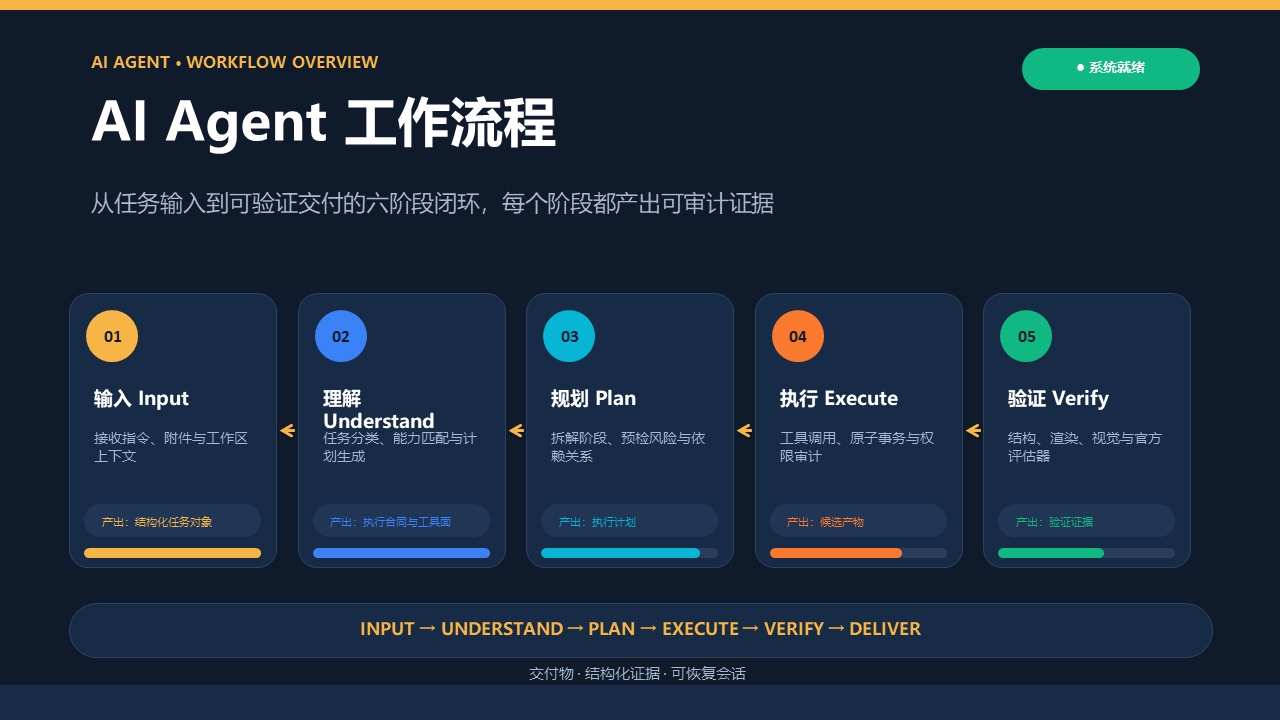
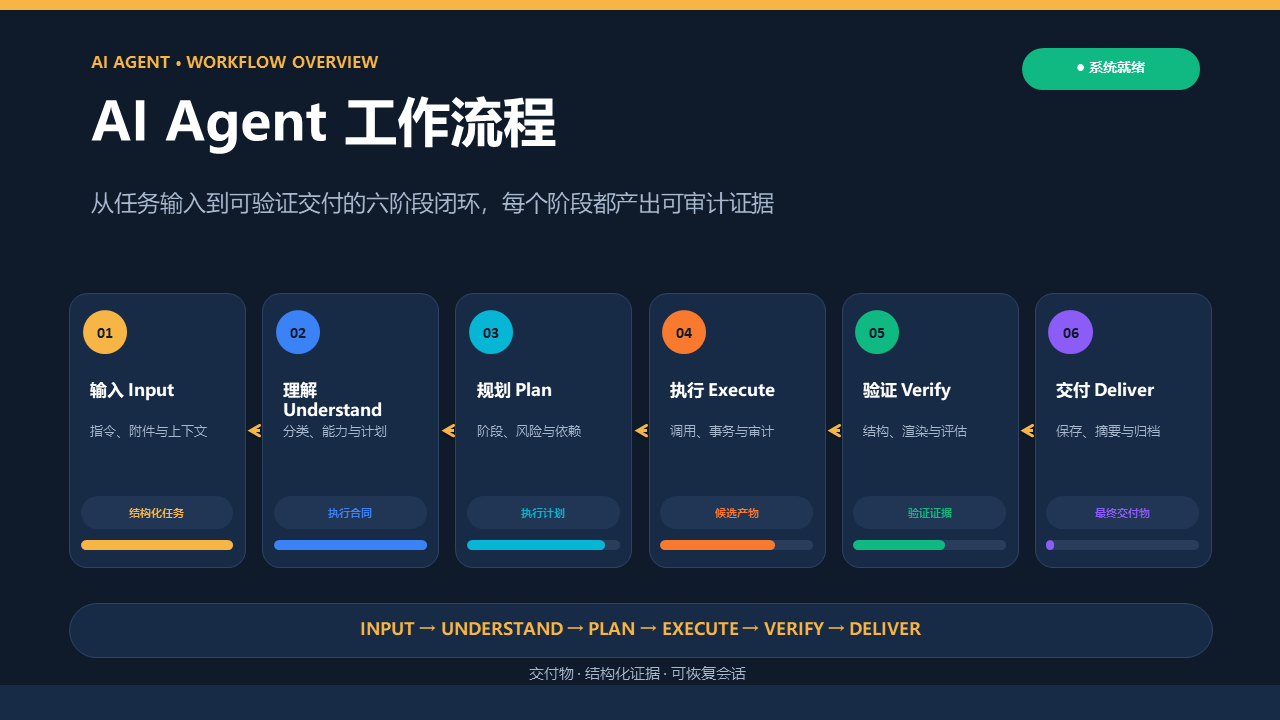
AI Agent workflow v6: complete six-stage pipeline on native page

Changed region(s): [[0.0625, 0.3972, 0.9688, 0.7944]]

diff --git a/benchmarks/manual_tasks/ai-agent-workflow/build_deck_v6.py b/benchmarks/manual_tasks/ai-agent-workflow/build_deck_v6.py
@@ -1,0 +1,194 @@
+"""AI Agent workflow deck v6.
+
+Page 1: six-stage native pipeline (input -> deliver) with stage cards and
+delivery closure. Page 2: compact HTML-dashboard layout from v5.
+"""
+from pathlib import Path
+from pptx import Presentation
+from pptx.util import Inches, Pt
+from pptx.dml.color import RGBColor
+from pptx.enum.shapes import MSO_SHAPE, MSO_CONNECTOR
+from pptx.enum.text import PP_ALIGN, MSO_ANCHOR
+
+OUT = Path(r"E:\project\agent\xiaopu\workspace\iteration_runs\tasks\ai-agent-workflow\output\ai_agent_workflow.pptx")
+OUT.parent.mkdir(parents=True, exist_ok=True)
+
+NAVY = RGBColor(0x0F, 0x1A, 0x2B)
+NAVY2 = RGBColor(0x18, 0x2B, 0x46)
+WHITE = RGBColor(0xFF, 0xFF, 0xFF)
+MUTED = RGBColor(0xA8, 0xB8, 0xCE)
+AMBER = RGBColor(0xF6, 0xB5, 0x44)
+INK = RGBColor(0x22, 0x2A, 0x35)
+GRAY = RGBColor(0x66, 0x70, 0x7D)
+PAPER = RGBColor(0xF3, 0xF5, 0xF8)
+CARD = RGBColor(0xFF, 0xFF, 0xFF)
+BORDER = RGBColor(0xDF, 0xE5, 0xEC)
+BLUE = RGBColor(0x3B, 0x82, 0xF6)
+GREEN = RGBColor(0x10, 0xB9, 0x81)
+ORANGE = RGBColor(0xF9, 0x7A, 0x2E)
+PURPLE = RGBColor(0x8B, 0x5C, 0xF6)
+CYAN = RGBColor(0x06, 0xB6, 0xD4)
+
+prs = Presentation()
+prs.slide_width = Inches(13.333)
+prs.slide_height = Inches(7.5)
+BLANK = prs.slide_layouts[6]
+
+
+def rect(slide, x, y, w, h, fill, line=None, round_=False, radius=0.12):
+    kind = MSO_SHAPE.ROUNDED_RECTANGLE if round_ else MSO_SHAPE.RECTANGLE
+    sh = slide.shapes.add_shape(kind, Inches(x), Inches(y), Inches(w), Inches(h))
+    sh.fill.solid(); sh.fill.fore_color.rgb = fill
+    if line is None:
+        sh.line.fill.background()
+    else:
+        sh.line.color.rgb = line; sh.line.width = Pt(0.75)
+    sh.shadow.inherit = False
+    if round_:
+        try:
+            sh.adjustments[0] = radius
+        except Exception:
+            pass
+    return sh
+
+
+def text(slide, x, y, w, h, value, size, color, bold=False, align=PP_ALIGN.LEFT,
+         anchor=MSO_ANCHOR.TOP, spacing=1.0, font="Microsoft YaHei"):
+    box = slide.shapes.add_textbox(Inches(x), Inches(y), Inches(w), Inches(h))
+    tf = box.text_frame
+    tf.word_wrap = True
+    tf.vertical_anchor = anchor
+    for i, line in enumerate(value.split("\n")):
+        p = tf.paragraphs[0] if i == 0 else tf.add_paragraph()
+        p.alignment = align
+        p.line_spacing = spacing
+        r = p.add_run(); r.text = line
+        r.font.size = Pt(size); r.font.bold = bold; r.font.color.rgb = color; r.font.name = font
+    return box
+
+
+def arrow(slide, x1, y1, x2, y2, color=AMBER):
+    c = slide.shapes.add_connector(MSO_CONNECTOR.STRAIGHT, Inches(x1), Inches(y1), Inches(x2), Inches(y2))
+    c.line.color.rgb = color; c.line.width = Pt(2)
+    ln = c.line._get_or_add_ln()
+    ln.append(ln.makeelement("{http://schemas.openxmlformats.org/drawingml/2006/main}headEnd",
+                             {"type": "arrow", "w": "med", "len": "med"}))
+
+
+def progress(slide, x, y, w, frac, color):
+    rect(slide, x, y, w, 0.10, RGBColor(0x2A, 0x3D, 0x5A), None, True, 0.5)
+    rect(slide, x, y, max(0.08, w * frac), 0.10, color, None, True, 0.5)
+
+
+# ---------------- page 1 ----------------
+s1 = prs.slides.add_slide(BLANK)
+rect(s1, 0, 0, 13.333, 7.5, NAVY)
+rect(s1, 0, 0, 13.333, 0.10, AMBER)
+rect(s1, 0, 7.14, 13.333, 0.36, NAVY2)
+text(s1, 0.85, 0.50, 8.2, 0.4, "AI AGENT · WORKFLOW OVERVIEW", 12, AMBER, True)
+rect(s1, 10.65, 0.50, 1.85, 0.44, GREEN, None, True, 0.5)
+text(s1, 10.65, 0.56, 1.85, 0.30, "● 系统就绪", 10.5, WHITE, True, PP_ALIGN.CENTER)
+text(s1, 0.85, 0.88, 11.6, 1.0, "AI Agent 工作流程", 40, WHITE, True)
+text(s1, 0.85, 1.92, 11.6, 0.55, "从任务输入到可验证交付的六阶段闭环，每个阶段都产出可审计证据", 17, MUTED)
+text(s1, 0.85, 6.88, 11.6, 0.30, "交付物 · 结构化证据 · 可恢复会话", 11, MUTED, False, PP_ALIGN.CENTER)
+
+steps = [
+    ("01", "输入 Input", "指令、附件与上下文", "结构化任务", 1.0, AMBER),
+    ("02", "理解 Understand", "分类、能力与计划", "执行合同", 1.0, BLUE),
+    ("03", "规划 Plan", "阶段、风险与依赖", "执行计划", 0.9, CYAN),
+    ("04", "执行 Execute", "调用、事务与审计", "候选产物", 0.75, ORANGE),
+    ("05", "验证 Verify", "结构、渲染与评估", "验证证据", 0.6, GREEN),
+    ("06", "交付 Deliver", "保存、摘要与归档", "最终交付物", 0.0, PURPLE),
+]
+x0, y0, gap = 0.72, 3.05, 0.18
+w = (13.333 - 2 * x0 - 5 * gap) / 6
+h = 2.86
+for i, (num, title, desc, deliver, frac, accent) in enumerate(steps):
+    x = x0 + i * (w + gap)
+    rect(s1, x, y0, w, h, NAVY2, RGBColor(0x2E, 0x42, 0x62), True, 0.10)
+    chip = rect(s1, x + 0.14, y0 + 0.18, 0.46, 0.46, accent, None, True, 0.5)
+    tf = chip.text_frame; tf.word_wrap = False
+    p = tf.paragraphs[0]; p.alignment = PP_ALIGN.CENTER
+    r = p.add_run(); r.text = num; r.font.size = Pt(12); r.font.bold = True; r.font.color.rgb = NAVY
+    text(s1, x + 0.12, y0 + 0.86, w - 0.24, 0.40, title, 12.5, WHITE, True)
+    text(s1, x + 0.12, y0 + 1.32, w - 0.24, 0.72, desc, 9.5, MUTED, spacing=1.02)
+    rect(s1, x + 0.12, y0 + 2.12, w - 0.24, 0.34, RGBColor(0x21, 0x35, 0x55), None, True, 0.5)
+    text(s1, x + 0.18, y0 + 2.18, w - 0.36, 0.22, deliver, 8, accent, True, PP_ALIGN.CENTER)
+    progress(s1, x + 0.12, y0 + 2.58, w - 0.24, frac, accent)
+    if i < len(steps) - 1:
+        arrow(s1, x + w + 0.025, y0 + h / 2, x + w + gap - 0.025, y0 + h / 2)
+
+rect(s1, 0.72, 6.28, 11.90, 0.56, NAVY2, RGBColor(0x2E, 0x42, 0x62), True, 0.5)
+text(s1, 0.92, 6.40, 11.5, 0.34, "INPUT → UNDERSTAND → PLAN → EXECUTE → VERIFY → DELIVER", 12.5, AMBER, True, PP_ALIGN.CENTER)
+
+# ---------------- page 2 ----------------
+s2 = prs.slides.add_slide(BLANK)
+rect(s2, 0, 0, 13.333, 7.5, PAPER)
+rect(s2, 0, 0, 13.333, 0.78, CARD, BORDER)
+rect(s2, 0.55, 0.20, 0.38, 0.38, BLUE, None, True, 0.5)
+text(s2, 1.08, 0.16, 3.2, 0.45, "AI Agent Console", 15, INK, True)
+tabs = [("总览", True), ("执行", False), ("验证", False), ("设置", False)]
+tx = 4.55
+for label, active in tabs:
+    wtab = 0.72
+    if active:
+        rect(s2, tx, 0.27, wtab, 0.28, BLUE, None, True, 0.5)
+        text(s2, tx, 0.31, wtab, 0.22, label, 10.5, WHITE, True, PP_ALIGN.CENTER)
+    else:
+        text(s2, tx, 0.31, wtab, 0.22, label, 10.5, GRAY, False, PP_ALIGN.CENTER)
+    tx += wtab + 0.18
+text(s2, 8.95, 0.25, 1.6, 0.32, "● 系统在线", 10.5, GREEN, True)
+rect(s2, 10.55, 0.19, 2.25, 0.42, BLUE, None, True, 0.5)
+text(s2, 10.55, 0.26, 2.25, 0.30, "＋ 新建任务", 11.5, WHITE, True, PP_ALIGN.CENTER)
+
+text(s2, 0.75, 0.94, 11.8, 0.48, "工作台 · 四阶段运行视图", 23, INK, True)
+text(s2, 0.75, 1.40, 11.8, 0.34, "复杂任务被拆解为可验证阶段，状态、指标与证据实时可见", 12, GRAY)
+
+kpis = [
+    ("1.2s", "平均响应", BLUE), ("98.2%", "任务完成率", GREEN),
+    ("99.7%", "工具调用成功率", ORANGE), ("100%", "证据覆盖率", PURPLE),
+]
+kw = 2.86; kgap = 0.22; kx = 0.75; ky = 1.84; kh = 0.78
+for i, (value, label, color) in enumerate(kpis):
+    x = kx + i * (kw + kgap)
+    rect(s2, x, ky, kw, kh, CARD, BORDER, True, 0.10)
+    rect(s2, x, ky, 0.08, kh, color)
+    text(s2, x + 0.22, ky + 0.08, kw - 0.4, 0.30, value, 18, INK, True)
+    text(s2, x + 0.22, ky + 0.46, kw - 0.4, 0.24, label, 9.5, GRAY)
+
+cards = [
+    ("INPUT", "输入 Input", "01", BLUE, "接收指令、附件与工作区上下文，完成意图澄清与队列排序。",
+     ["自然语言与多模态输入", "自动发现任务相关文件", "生成结构化任务对象"], "12+", "输入类型", 1.0),
+    ("UNDERSTAND", "理解 Understand", "02", GREEN, "解析任务语义，匹配类型、能力与执行合同。",
+     ["任务分类与 Skill 选择", "能力与工具面解析", "风险与依赖预检"], "8", "任务类型", 1.0),
+    ("EXECUTE", "执行 Execute", "03", ORANGE, "在阶段工具面内执行修改，全部变更走原子事务与审计。",
+     ["阶段化工具准入", "原子批量事务", "失败自动回滚"], "100%", "事务回滚", 0.8),
+    ("VERIFY", "验证 Verify", "04", PURPLE, "以结构、渲染、视觉与官方评估器四层证据确认交付质量。",
+     ["反例定位与局部修复", "证据新鲜度管理", "交付前强制 gate"], "4", "证据层", 0.7),
+]
+positions = [(0.75, 2.76), (6.90, 2.76), (0.75, 4.86), (6.90, 4.86)]
+cw, ch = 5.70, 1.98
+for (tag, title, num, accent, desc, bullets, metric, metric_label, frac), (cx, cy) in zip(cards, positions):
+    rect(s2, cx, cy, cw, ch, CARD, BORDER, True, 0.07)
+    rect(s2, cx, cy, 0.09, ch, accent)
+    rect(s2, cx + 0.26, cy + 0.18, 0.50, 0.50, accent, None, True, 0.2)
+    text(s2, cx + 0.26, cy + 0.24, 0.50, 0.36, num, 13, WHITE, True, PP_ALIGN.CENTER)
+    text(s2, cx + 0.90, cy + 0.16, 2.4, 0.34, title, 14.5, INK, True)
+    rect(s2, cx + cw - 1.42, cy + 0.22, 1.14, 0.28, PAPER, None, True, 0.5)
+    text(s2, cx + cw - 1.42, cy + 0.25, 1.14, 0.20, tag, 8, accent, True, PP_ALIGN.CENTER)
+    text(s2, cx + 0.28, cy + 0.76, cw - 0.56, 0.46, desc, 10.5, GRAY, spacing=1.02)
+    bullets = "\n".join("•  " + b for b in bullets)
+    text(s2, cx + 0.28, cy + 1.24, cw - 1.26, 0.58, bullets, 9.5, INK, spacing=0.98)
+    rect(s2, cx + cw - 1.06, cy + 1.24, 0.76, 0.58, PAPER, BORDER, True, 0.10)
+    text(s2, cx + cw - 1.06, cy + 1.30, 0.76, 0.24, metric, 12.5, accent, True, PP_ALIGN.CENTER)
+    text(s2, cx + cw - 1.06, cy + 1.58, 0.76, 0.20, metric_label, 7, GRAY, False, PP_ALIGN.CENTER)
+    progress(s2, cx + 0.28, cy + 1.92, cw - 1.26, frac, accent)
+    text(s2, cx + 0.28, cy + 1.98, 1.0, 0.16, "查看日志", 7.5, accent, True)
+    text(s2, cx + 1.24, cy + 1.98, 1.0, 0.16, "查看证据", 7.5, accent, True)
+    text(s2, cx + 2.20, cy + 1.98, 1.0, 0.16, "导出", 7.5, accent, True)
+
+rect(s2, 0, 7.06, 13.333, 0.44, CARD, BORDER)
+text(s2, 0.75, 7.13, 11.8, 0.30, "AI Agent Console · 运行状态正常 · 所有阶段证据已归档", 10, GRAY, False, PP_ALIGN.CENTER)
+
+prs.save(OUT)
+print("saved", OUT, "slides", len(prs.slides))
